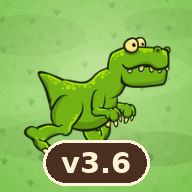
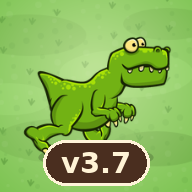
v3.7: Chomp Chase rival brain + cherries
- Rival raptor now has an AI: flees a bigger player, hunts a smaller
  one inside 220px, otherwise beelines the nearest cherry. It eats
  and visibly grows (+1 radius per cherry), as the intro always promised.
- Old behavior was a fixed 45-degree bounce pattern that only ate
  dots by accident.
- Yellow dots redrawn as single cherries (red ball, stem, leaf,
  highlight). Intro copy updated to match.
- Icons rebadged v3.7, title/header/cache bumped.

Changed region(s): [[0.5625, 0.7812, 0.6875, 0.9062]]

diff --git a/index.html b/index.html
@@ -3,7 +3,7 @@
 <head>
 <meta charset="UTF-8">
 <meta name="viewport" content="width=device-width, initial-scale=1.0, maximum-scale=1.0, user-scalable=no">
-<title>Dino Survival v3.6</title>
+<title>Dino Survival v3.7</title>
 <link rel="manifest" href="manifest.webmanifest">
 <meta name="theme-color" content="#79c14e">
 <link rel="apple-touch-icon" href="icon-192.png">
@@ -150,7 +150,7 @@
 <!-- DINO SELECT -->
 <div id="scrSelect" class="overlay">
   <div class="panel">
-    <h1>🦖 DINO SURVIVAL <span style="font-size:14px;color:#8a6a50">v3.6</span></h1>
+    <h1>🦖 DINO SURVIVAL <span style="font-size:14px;color:#8a6a50">v3.7</span></h1>
     <p class="sub">Pick your dinosaur and start playing!</p>
     <div id="diffRow" style="display:flex;gap:8px;justify-content:center;margin:2px 0 10px;flex-wrap:wrap">
       <button class="btn small gray diffbtn" data-diff="beginner">🐣 Beginner</button>
@@ -732,8 +732,15 @@ function tickChomp(dt){
   chomp.t-=dt;
   const p=chomp.player,r=chomp.rival;
   playerControl(p,dt,170);
-  const rv=90*dmult('enemy');r.x+=r.vx*rv*dt;r.y+=r.vy*rv*dt;
-  if(r.x<30||r.x>W-30)r.vx*=-1; if(r.y<80||r.y>H-40)r.vy*=-1;
+  const rv=90*dmult('enemy');
+  /* v3.7: rival brain: flee a bigger player, hunt a smaller one, else chase the nearest cherry */
+  let tx=null,ty=null;const pd=dist(p,r);
+  if(p.r>r.r+4&&pd<180){tx=r.x+(r.x-p.x);ty=r.y+(r.y-p.y);}
+  else if(r.r>p.r+4&&pd<220){tx=p.x;ty=p.y;}
+  else{let best=1e9;for(const d of chomp.dots){const dd=dist(r,d);if(dd<best){best=dd;tx=d.x;ty=d.y;}}}
+  if(tx!==null){const dx=tx-r.x,dy=ty-r.y,m=Math.hypot(dx,dy)||1;r.vx=dx/m;r.vy=dy/m;}
+  r.x+=r.vx*rv*dt;r.y+=r.vy*rv*dt;
+  r.x=clamp(r.x,30,W-30);r.y=clamp(r.y,80,H-40);
   for(let i=chomp.dots.length-1;i>=0;i--){const d=chomp.dots[i];
     if(dist(p,d)<p.r+d.r){chomp.dots.splice(i,1);p.r+=1.2;p.eaten++;chomp.reward+=1;
       chomp.dots.push({x:rand(30,W-30),y:rand(90,H-60),r:6});}
@@ -1381,7 +1388,7 @@ function maybeOfferMini(){ // ~60% of level clears
 let pendingMini=null;
 function openMiniOffer(){
   const games=[
-    {id:'chomp',emo:'🐍',text:'Chomp Chase! Eat dots, grow big, and try to eat the rival dino. Earn bonus points!'},
+    {id:'chomp',emo:'🐍',text:'Chomp Chase! Eat cherries \ud83c\udf52, grow big, and try to eat the rival dino before it outgrows you!'},
     {id:'shapes',emo:'🔷',text:'Shape Sorter! Fit the shapes in the holes before time runs out. +3 points each!'},
     {id:'spin',emo:'🎰',text:'Lucky Spin! ONE spin for 1 point. Match 3 for a +25 jackpot!'},
     {id:'runner',emo:'🏃',text:'Dino Run! JUMP over rocks and cactus, grab eggs, and stay ahead of the raptor!'},
@@ -2170,7 +2177,13 @@ function draw(){
   }
   if(mode==='chomp'&&chomp){
     ctx.fillStyle='rgba(20,40,60,.25)';ctx.fillRect(0,0,W,H);
-    for(const d of chomp.dots){ctx.fillStyle='#ffd34d';ctx.beginPath();ctx.arc(d.x,d.y,d.r,0,Math.PI*2);ctx.fill();}
+    for(const d of chomp.dots){
+      ctx.strokeStyle='#6b4423';ctx.lineWidth=2;ctx.beginPath();
+      ctx.moveTo(d.x,d.y-d.r+1);ctx.quadraticCurveTo(d.x+3,d.y-d.r-7,d.x+6,d.y-d.r-10);ctx.stroke();
+      ctx.fillStyle='#7fbf3f';ctx.beginPath();ctx.ellipse(d.x+7,d.y-d.r-10,4.5,2.5,-0.5,0,Math.PI*2);ctx.fill();
+      ctx.fillStyle='#e0333c';ctx.beginPath();ctx.arc(d.x,d.y,d.r,0,Math.PI*2);ctx.fill();
+      ctx.fillStyle='rgba(255,255,255,.45)';ctx.beginPath();ctx.arc(d.x-d.r*0.35,d.y-d.r*0.35,d.r*0.3,0,Math.PI*2);ctx.fill();
+    }
     drawDino(chomp.rival.x,chomp.rival.y,chomp.rival.r,chomp.rival.vx>0?1:-1,'raptor',performance.now()/120,null);
     drawDino(chomp.player.x,chomp.player.y,chomp.player.r,chomp.player.face,S.dino,performance.now()/120,S.wearing);
     ctx.fillStyle='#fff';ctx.font='700 20px Fredoka,sans-serif';ctx.textAlign='center';

diff --git a/sw.js b/sw.js
@@ -1,4 +1,4 @@
-const C='dino-survival-v36';
+const C='dino-survival-v37';
 const CORE=['./','./index.html','./manifest.webmanifest','./icon-192.png','./icon-512.png'];
 self.addEventListener('install',e=>{
   e.waitUntil(caches.open(C).then(c=>c.addAll(CORE)));